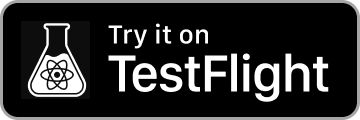
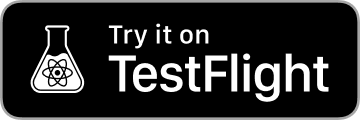
chore: update TestFlight badge

diff --git a/README.md b/README.md
@@ -4,7 +4,7 @@
   <img
     src="./src/assets/images/testFlightBadge.png"
     alt="Try it on TestFlight"
-    width="220"
+    width="165"
   />
 </a>
 
